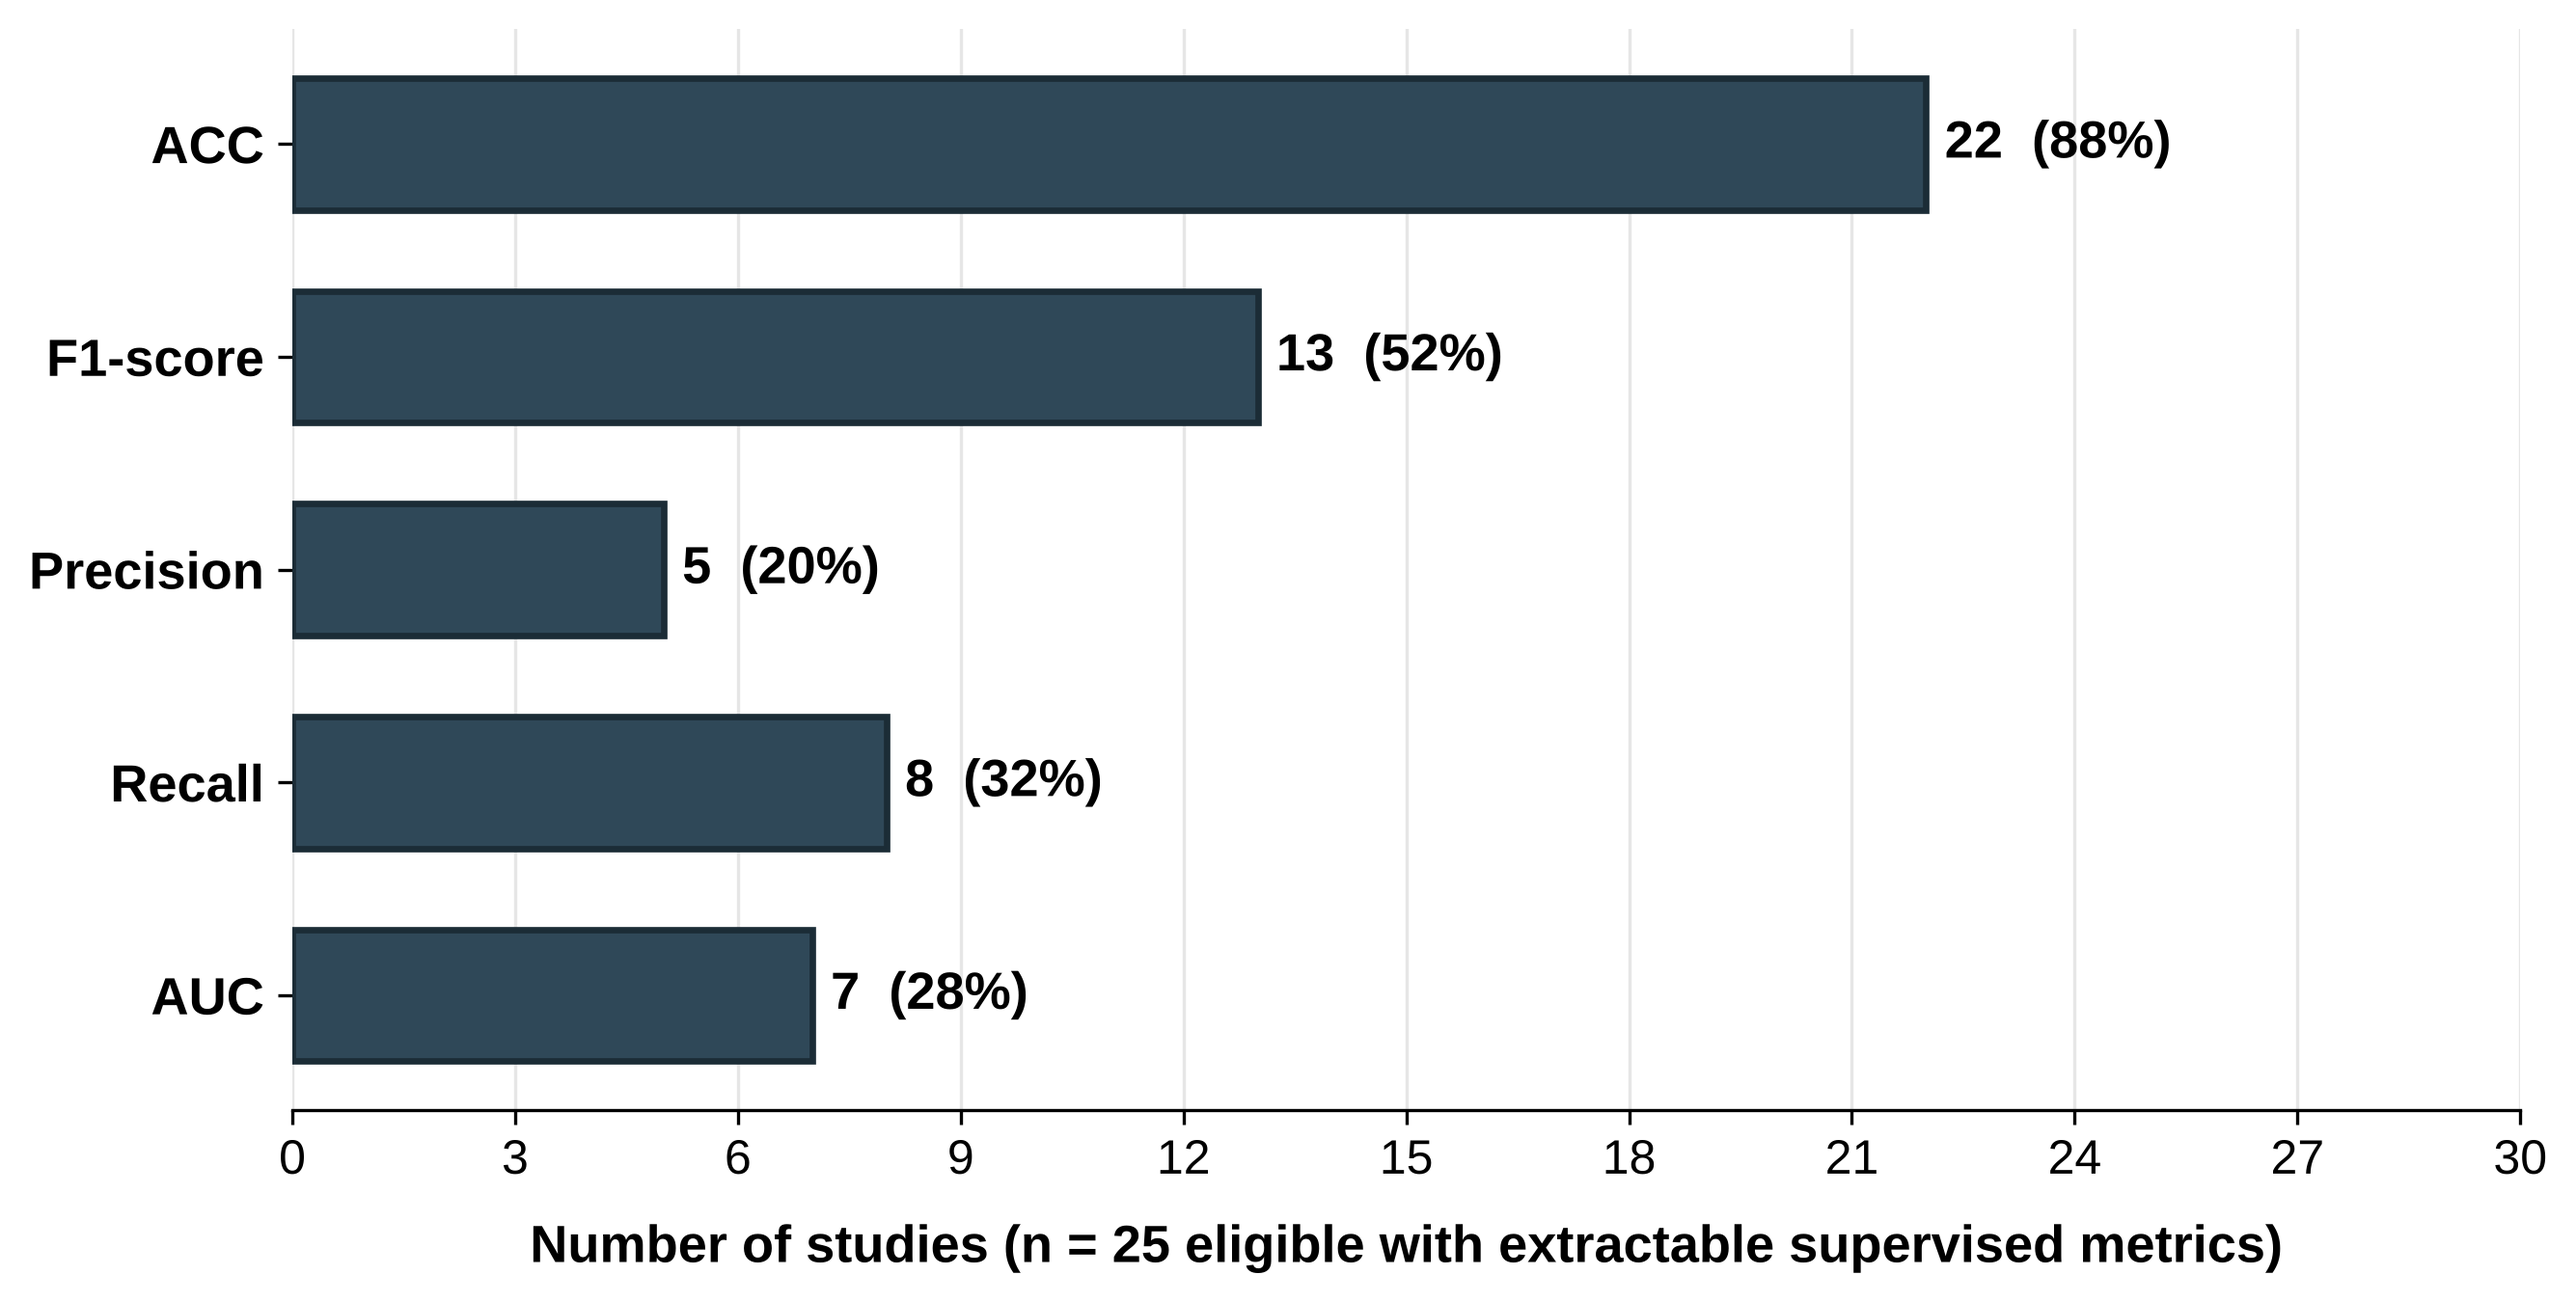
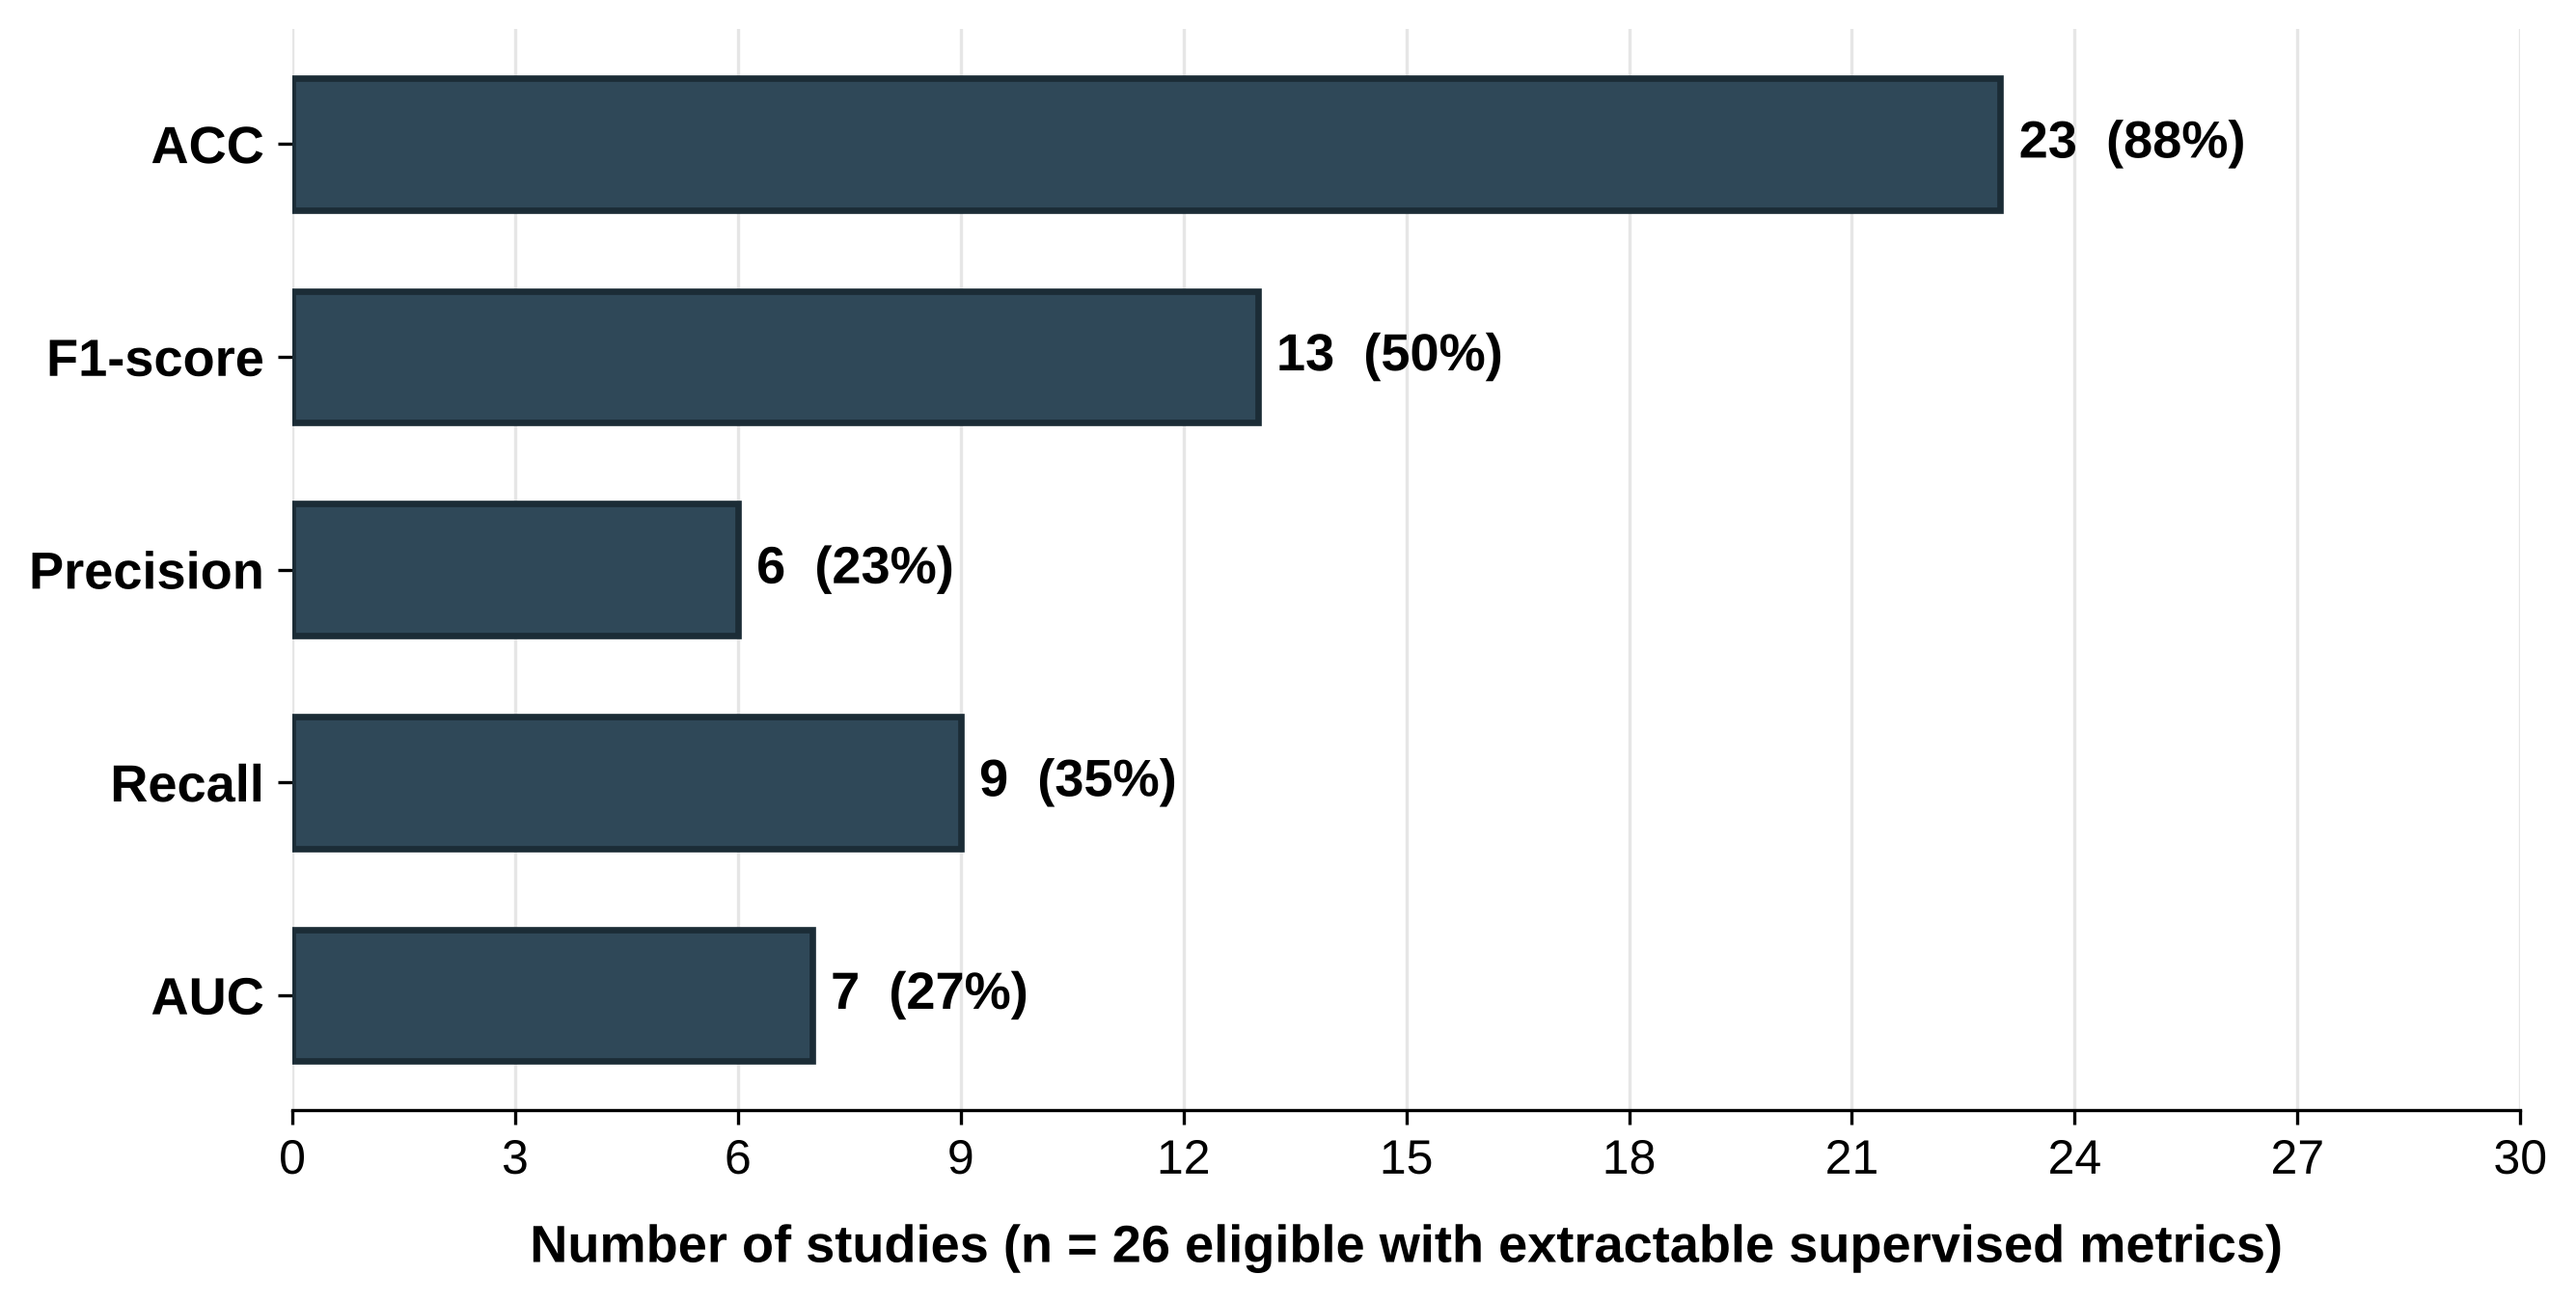
fix: count Voss and Wang metric flags and update metric denominators

diff --git a/scripts/figure_data.js b/scripts/figure_data.js
@@ -2,7 +2,7 @@ window.FIGURE_DATA = {
   "n_eligible": 36,
   "n_appraised": 36,
   "n_ml": 28,
-  "n_supervised": 25,
+  "n_supervised": 26,
   "mmat": {
     "Outcome data completeness": {
       "yes": 25,
@@ -74,28 +74,28 @@ window.FIGURE_DATA = {
   "metrics": [
     {
       "label": "ACC",
-      "n": 22,
+      "n": 23,
       "pct": 88
     },
     {
       "label": "F1-score",
       "n": 13,
-      "pct": 52
+      "pct": 50
     },
     {
       "label": "Precision",
-      "n": 5,
-      "pct": 20
+      "n": 6,
+      "pct": 23
     },
     {
       "label": "Recall",
-      "n": 8,
-      "pct": 32
+      "n": 9,
+      "pct": 35
     },
     {
       "label": "AUC",
       "n": 7,
-      "pct": 28
+      "pct": 27
     }
   ],
   "datasets": {
@@ -198,6 +198,6 @@ window.FIGURE_DATA = {
   },
   "primary_evidence": 18,
   "translational": 21,
-  "metrics_numeric": 24,
+  "metrics_numeric": 25,
   "challenge_any": 21
 };

diff --git a/scripts/compute_frequencies.py b/scripts/compute_frequencies.py
@@ -35,8 +35,8 @@ EXPECTED = {
     "domains": {"D1": 12, "D2": 6, "D3": 6, "D4": 12},
     "mmat_appraised": 36,
     "ml_architecture": 28,
-    "supervised_metrics": 25,
-    "metrics_numeric": 24,
+    "supervised_metrics": 26,
+    "metrics_numeric": 25,
     "primary_evidence": 18,
     "translational": 21,
     "challenge_any": 21,

diff --git a/README.md b/README.md
@@ -15,8 +15,8 @@ The research follows PRISMA-ScR and PRISMA 2020 methodology and analyzes machine
 | RQ | Question | Analysis base |
 |----|----------|---------------|
 | RQ1 | What ML architectures and models have been employed for facial emotion recognition in children with ASD in the context of therapeutic monitoring? | 28 eligible studies with identifiable ML architecture |
-| RQ2 | What metrics are used to evaluate the performance of emotion recognition algorithms, methods, or models? | 25 eligible studies with extractable supervised metrics |
-| RQ3 | What are the accuracy, precision, recall, F1-score, and AUC values of these models? | 24 eligible studies with numeric values for those metrics |
+| RQ2 | What metrics are used to evaluate the performance of emotion recognition algorithms, methods, or models? | 26 eligible studies with extractable supervised metrics |
+| RQ3 | What are the accuracy, precision, recall, F1-score, and AUC values of these models? | 25 eligible studies with numeric values for those metrics |
 | RQ4 | What datasets are used for model training and validation, and what are their representativeness limitations? | 36 eligible corpus |
 | RQ5 | What input variables or features do emotion recognition systems employ, and to what extent do they correspond to the dimensions required by therapeutic monitoring? | 36 eligible corpus |
 | RQ6 | What technical and methodological limitations impede ML system implementation in resource-limited contexts? | 36 eligible corpus |
@@ -45,7 +45,7 @@ systematic-review-data-analysis/
 │   ├── fig_2_mmat.png                   # MMAT judgement distribution (n = 36 appraised)
 │   ├── fig_3_challenges.png             # Methodological challenges (n = 36 eligible)
 │   ├── fig_4_architectures.png          # Architectural families by configuration (n = 28)
-│   ├── fig_5_metrics.png                # Metric reporting frequency (n = 25)
+│   ├── fig_5_metrics.png                # Metric reporting frequency (n = 26)
 │   ├── fig_6_datasets.png               # Dataset treemap by provenance (n = 36 eligible)
 │   ├── fig_7_input.png                  # Input representation approach (n = 36 eligible)
 │   └── fig_8_temporal.png               # Annual distribution by model family (n = 36 eligible)
@@ -175,15 +175,15 @@ Search strings for IEEE Xplore and Web of Science, with platform-specific syntax
 | Computer Vision / Eye-tracking | 1 | 2 | 3 | 10.7% |
 | **Total** | **7** | **21** | **28** | **100%** |
 
-### Performance Metrics (n = 25 eligible with extractable supervised metrics)
+### Performance Metrics (n = 26 eligible with extractable supervised metrics)
 
 | Metric | Studies | % |
 |--------|---------|---|
-| Accuracy (ACC) | 22 | 88% |
-| F1-score | 13 | 52% |
-| Recall | 8 | 32% |
-| AUC | 7 | 28% |
-| Precision | 5 | 20% |
+| Accuracy (ACC) | 23 | 88% |
+| F1-score | 13 | 50% |
+| Recall | 9 | 35% |
+| AUC | 7 | 27% |
+| Precision | 6 | 23% |
 
 Values are reported stratified by clinical domain and do not admit comparison across distinct tasks. Studies on clinically sourced datasets report values that vary substantially by domain (79.1% balanced accuracy in D1, 88.0% in D4 screening); the 67.8% of Johnson et al. (2025) corresponds to seven-class classification on AffectNet. Studies on web-sourced datasets without clinical traceability report 84.0% to 99.01%, and four of the five highest accuracy values in the corpus (99.01%, 97.2%, 96.5% and 96.0%) come from these datasets; these values are not transferable to therapeutic context.
 
@@ -265,7 +265,7 @@ All figure frequencies are computed from `data/extraction_master.csv`, which hol
 ```bash
 cd scripts
 python3 deduplicate_records.py   # rebuilds data/records_deduplicated.csv (1,920 records, 524 duplicates)
-python3 compute_frequencies.py   # checks denominators (36, 36, 28, 25, 24, 18, 21, 21) and writes figure_data.js
+python3 compute_frequencies.py   # checks denominators (36, 36, 28, 26, 25, 18, 21, 21) and writes figure_data.js
 Rscript fig_4_architectures.R
 Rscript fig_6_datasets.R
 Rscript fig_7_input.R

diff --git a/CHANGELOG.md b/CHANGELOG.md
@@ -110,11 +110,24 @@ N36-01 to N36-06 and the closure plan).
 - README: description of the extraction matrix updated; the two workbooks in `prisma/`
   are identified as V3.5 records kept for traceability.
 
+### Changed (metric flags after manuscript update, 2026-11-10)
+- `data/extraction_master.csv`: Voss et al. (2019) now counts as reporting supervised
+  metrics (embedded emotion classifier with 72% accuracy; on-phone speed of 15-20 frames
+  per second and recognition within 100 ms recorded in the coding note); Wang et al.
+  (2025) now counts as reporting precision and recall (per-class values) and its note
+  records the 95% bootstrap confidence interval of the accuracy.
+- `scripts/compute_frequencies.py`: expected denominators updated to 26 studies with
+  supervised metrics and 25 with numeric values; `scripts/figure_data.js` and
+  `results/fig_5_metrics.png` regenerated (ACC 23, F1 13, Recall 9, AUC 7, Precision 6;
+  n = 26).
+- README: RQ2 and RQ3 bases, metric table and denominator check updated.
+
 ### Commits
 - `d1fb7e6` 2026-11-07 feat: add extraction master and compute all figures from it, add licenses, update README
 - `3791adb` 2026-11-08 feat: reconstruct screening flow with reproducible deduplication and explicit scope criterion
 - `9c57aba` 2026-11-09 fix: verify coding of added studies against full texts
-- `PENDING` 2026-11-09 chore: link extraction matrix to screening log and finalize repository audit
+- `9e90c18` 2026-11-09 chore: link extraction matrix to screening log and finalize repository audit
+- `PENDING` 2026-11-10 fix: count Voss and Wang metric flags and update metric denominators
 
 ---
 
